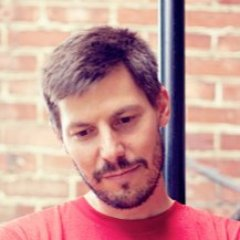
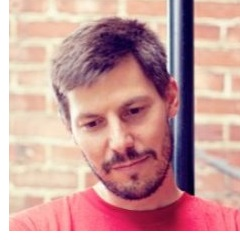
bio+index

diff --git a/index.html b/index.html
@@ -40,7 +40,7 @@
         </div>
         <div id="navbar" class="collapse navbar-collapse">
             <ul class="nav navbar-nav">
-                <li >
+                <li  class="active">
                     <a class="navbar-link" href="/index.html">home</a>
                 </li>
                 
@@ -64,7 +64,7 @@
                 
                 
                 
-                <li class="active">
+                <li >
                     <a class="navbar-link" href="/bio/">bio</a>
                 </li>
                 
@@ -99,7 +99,7 @@
         <div class="row">
 
             <div class="col-sm-3">
-                <div class="media personal-picture"><img src=images/arthurcharpentier.jpg alt="personal picture"/></div>
+                <div class="media personal-picture"><img src=images/arthurcharpentier2.jpg alt="personal picture"/></div>
             </div>
 
             <div class="col-sm-9">
